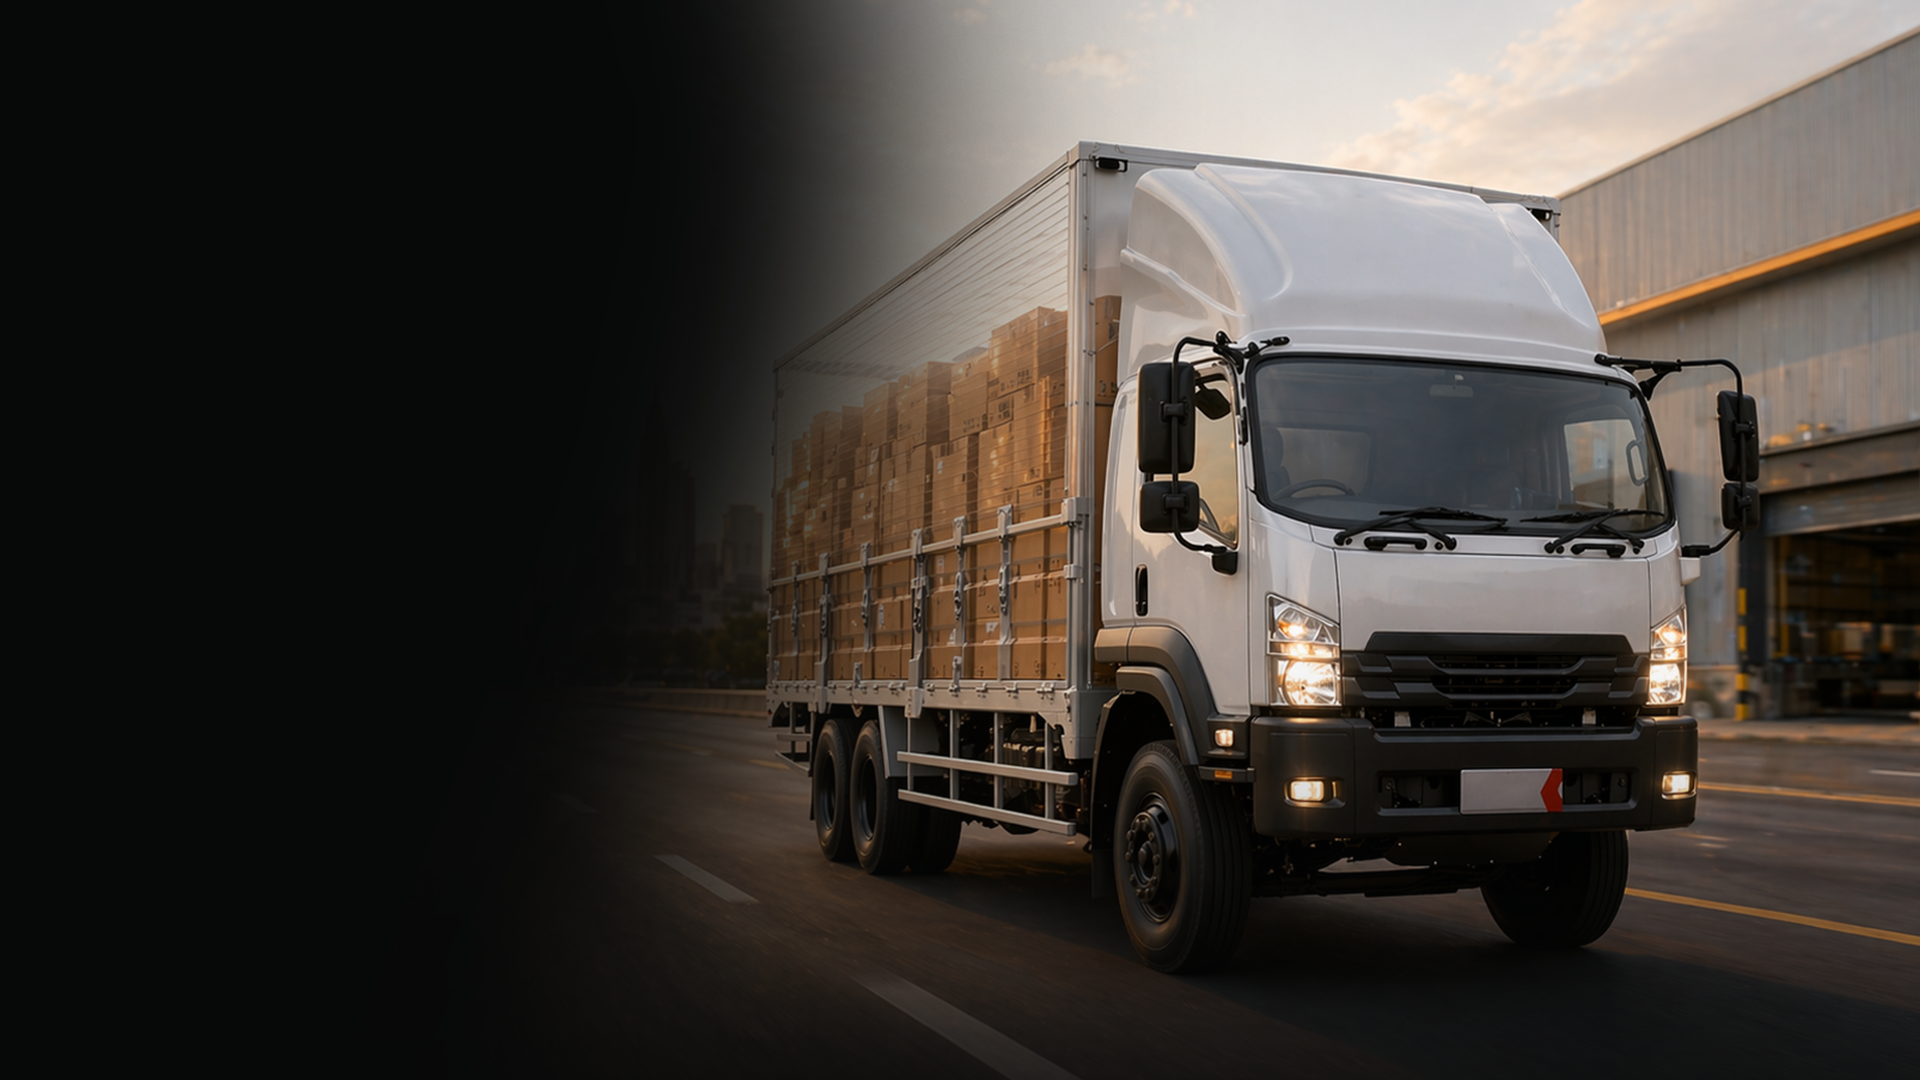
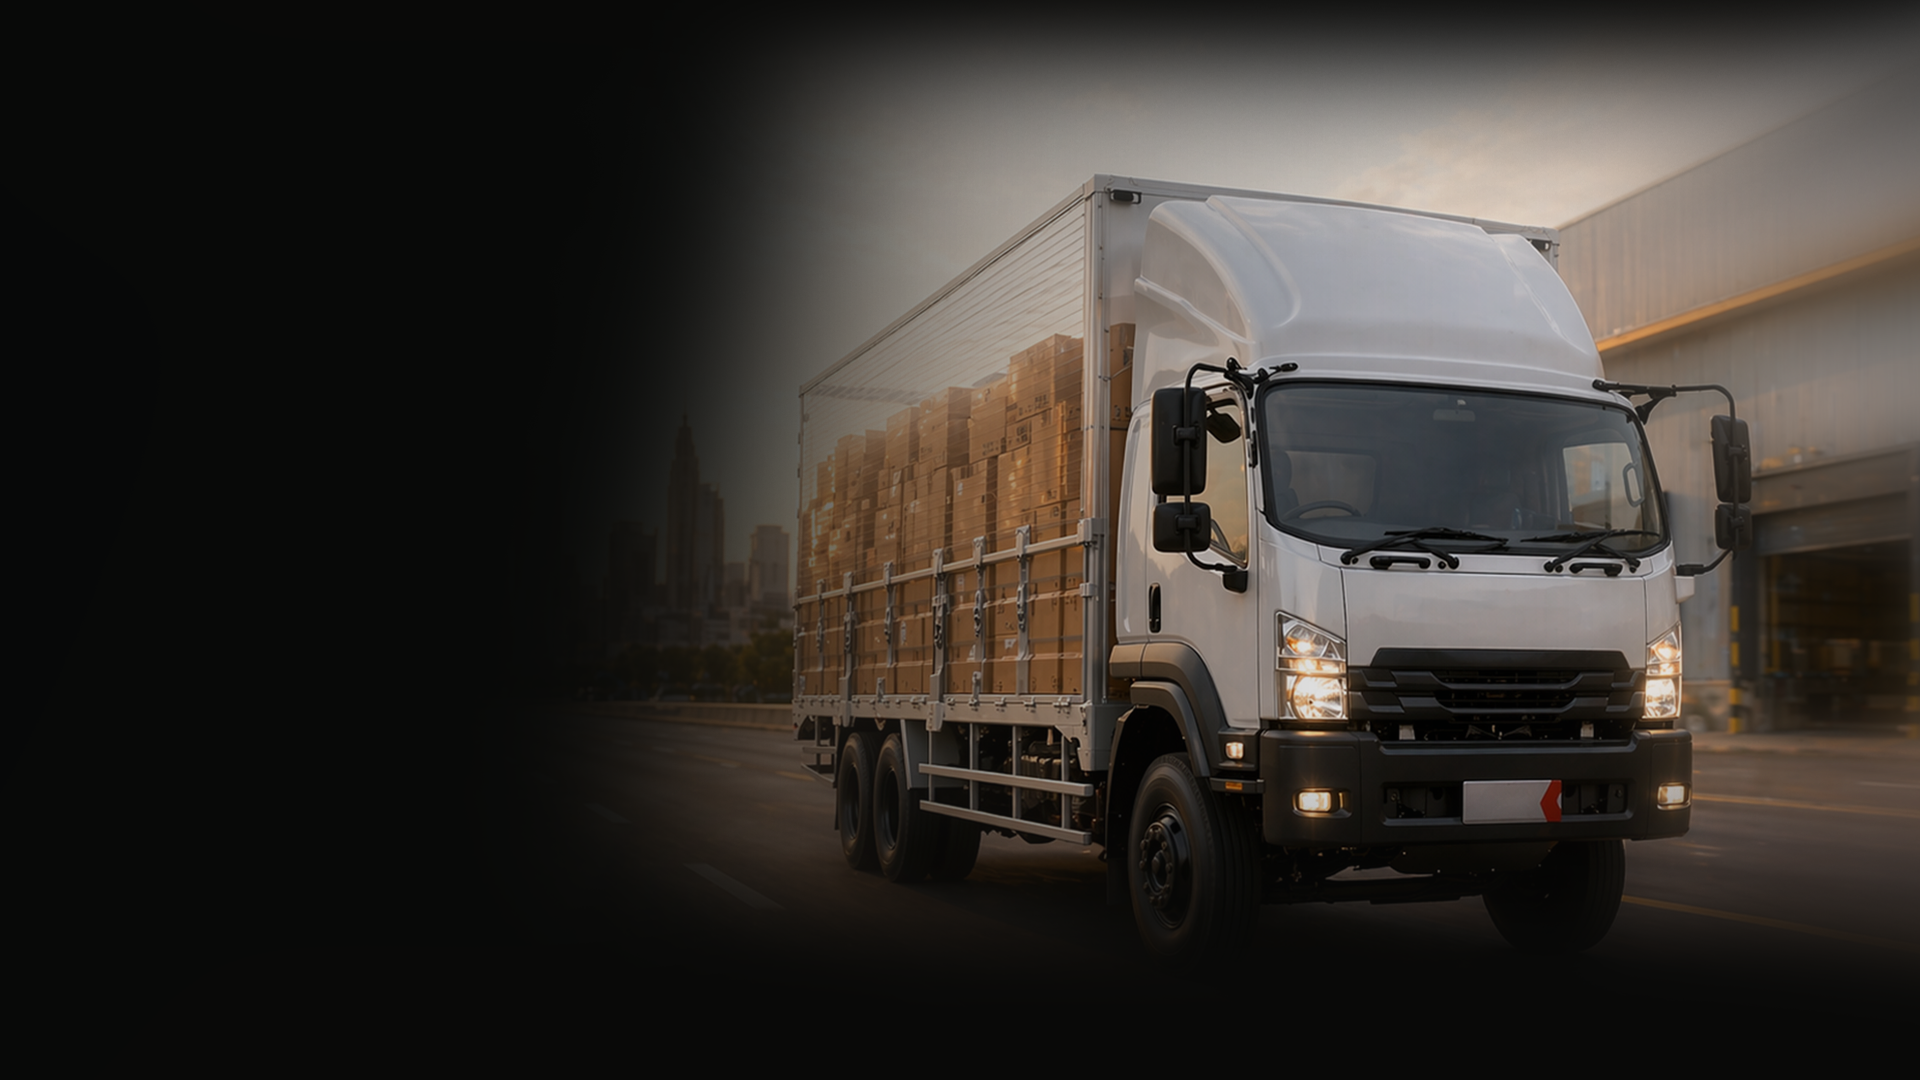
chore: auto sync cms and products backup

Changed region(s): [[0.3438, 0.0, 1.0, 1.0], [0.6875, 0.7944, 0.7812, 0.8556]]

diff --git a/style.css b/style.css
@@ -341,7 +341,7 @@ section {
 }
 
 .nav-cta:hover i {
-  transform: scale(1.2) rotate(15deg);
+  transform: scale(1.05);
 }
 
 .nav-cta:active {
@@ -2292,11 +2292,6 @@ section {
   overflow: hidden;
 }
 
-.product-card.card-variant-2 .product-card-image,
-.product-card.card-variant-3 .product-card-image {
-  height: 120px;
-  flex: none;
-}
 
 .product-card-image img {
   width: 100%;
@@ -2322,48 +2317,65 @@ section {
 }
 
 .product-card-body {
-  padding: 24px;
-  background: var(--white);
-  position: relative;
-  z-index: 2;
-}
-
-.product-card.card-variant-1 .product-card-body,
-.product-card.card-variant-4 .product-card-body {
   position: absolute;
   bottom: 0;
   left: 0;
   right: 0;
-  background: linear-gradient(to top, rgba(0,0,0,0.8) 0%, transparent 100%);
-  color: white;
+  /* Strengthened the gradient for better text readability */
+  background: linear-gradient(to top, rgba(0,0,0,0.95) 0%, rgba(0,0,0,0.7) 60%, transparent 100%);
   padding: 40px 30px 30px;
+  z-index: 2;
+  transition: padding 0.3s ease;
 }
 
-.product-card.card-variant-1 .product-card-body h3,
-.product-card.card-variant-4 .product-card-body h3,
-.product-card.card-variant-1 .product-card-body p,
-.product-card.card-variant-4 .product-card-body p {
-  color: white;
+.product-card:hover .product-card-body {
+  padding-bottom: 40px; /* Slight lift effect on hover */
 }
 
 .product-card-body h3 {
-  color: var(--primary);
+  color: #ffffff; /* Changed to white */
   font-family: 'Plus Jakarta Sans', sans-serif;
-  font-size: clamp(16px, 1.5vw, 20px);
+  font-size: clamp(18px, 1.8vw, 22px);
   font-weight: 800;
   margin-bottom: 8px;
   line-height: 1.2;
 }
 
 .product-card-body p {
-  color: var(--text-secondary);
-  font-size: 13px;
+  color: rgba(255, 255, 255, 0.85); /* Contrast with gradient */
+  font-size: 14px;
   line-height: 1.5;
   margin: 0;
   display: -webkit-box;
   -webkit-line-clamp: 2;
   -webkit-box-orient: vertical;
   overflow: hidden;
+}
+
+.card-top-icon {
+  position: absolute;
+  top: 20px;
+  right: 20px;
+  width: 40px;
+  height: 40px;
+  background: rgba(194, 153, 74, 0.15);
+  border-radius: 50%;
+  display: flex;
+  align-items: center;
+  justify-content: center;
+  color: #c2994a;
+  z-index: 3;
+  backdrop-filter: blur(8px);
+  -webkit-backdrop-filter: blur(8px);
+  font-size: 16px;
+  border: 1px solid rgba(194, 153, 74, 0.3);
+  transition: all 0.3s ease;
+}
+
+.product-card:hover .card-top-icon {
+  background: #c2994a;
+  color: #fff;
+  transform: scale(1.1);
 }
 
 .product-card-body .arrow {
@@ -3761,7 +3773,7 @@ section {
   background: var(--accent);
   color: var(--white);
   border-color: var(--accent);
-  transform: rotate(5deg);
+  transform: scale(1.1);
 }
 
 .contact-card:hover .card-arrow {
@@ -3841,7 +3853,7 @@ section {
 .contact-feature-item:hover .feature-icon {
   background: var(--accent);
   color: var(--white);
-  transform: scale(1.05) rotate(5deg);
+  transform: scale(1.05);
   box-shadow: var(--shadow-gold);
 }
 
@@ -5594,20 +5606,7 @@ section {
 .dist-hero-slide.active img {
   transform: scale(1.2) translateX(0);
 }
-.dist-hero-slide-num {
-  position: absolute;
-  top: 50%;
-  right: 5%;
-  transform: translateY(-50%);
-  font-size: clamp(100px, 15vw, 250px);
-  font-weight: 900;
-  color: rgba(194, 153, 74, 0.1);
-  z-index: 0;
-  pointer-events: none;
-  font-family: 'Inter', sans-serif;
-  line-height: 1;
-  letter-spacing: -0.05em;
-}
+
 
 @media (max-width: 1024px) {
   .dist-hero-wrapper { grid-template-columns: 1fr; min-height: auto; }
@@ -5638,18 +5637,18 @@ section {
   display: flex;
   justify-content: space-around;
   align-items: center;
-  background: #ffffff; /* Solid white as requested */
-  border-radius: 40px; /* Rounded rectangle style */
+  background: rgba(30, 30, 30, 0.45); /* Smoky dark glass as requested */
+  backdrop-filter: blur(25px);
+  -webkit-backdrop-filter: blur(25px);
+  border-radius: 100px; /* Capsule shape */
   padding: 40px 60px;
-  box-shadow: 
-    0 40px 80px rgba(0, 0, 0, 0.15),
-    0 0 30px rgba(255, 255, 255, 0.05); /* Subtle glass glow */
+  box-shadow: 0 40px 100px rgba(0, 0, 0, 0.3);
   margin: 0 auto 80px;
   max-width: 1200px;
   position: relative;
   z-index: 20;
   gap: 20px;
-  border: 1px solid rgba(0, 0, 0, 0.03);
+  border: 1px solid rgba(255, 255, 255, 0.1);
 }
 .dist-stat-premium {
   display: flex;
@@ -5667,14 +5666,14 @@ section {
   top: 20%;
   height: 60%;
   width: 1px;
-  background: linear-gradient(to bottom, transparent, rgba(0, 0, 0, 0.08), transparent);
+  background: linear-gradient(to bottom, transparent, rgba(255, 255, 255, 0.15), transparent);
 }
 .dist-stat-premium:last-child::after { display: none; }
 
 .stat-icon-premium {
   width: 80px;
   height: 80px;
-  background: #fdfaf3; /* Soft cream/gold circle from ref */
+  background: rgba(194, 153, 74, 0.1); /* Translucent gold circle */
   border-radius: 50%;
   display: flex;
   align-items: center;
@@ -5688,7 +5687,7 @@ section {
 .dist-stat-premium:hover .stat-icon-premium {
   background: #c2994a;
   color: #fff;
-  transform: scale(1.1) rotate(-10deg);
+  transform: scale(1.08);
 }
 .stat-info-premium {
   display: flex;
@@ -5704,13 +5703,13 @@ section {
 .dist-stat-premium .label {
   font-size: 15px;
   font-weight: 800;
-  color: #111; /* Dark text for contrast on white */
+  color: #ffffff; /* White text for contrast on dark glass */
   margin-bottom: 2px;
   text-transform: none;
 }
 .dist-stat-premium .sub-label {
   font-size: 13px;
-  color: #888;
+  color: rgba(255, 255, 255, 0.6);
   font-weight: 500;
 }
 
@@ -5733,7 +5732,7 @@ section {
   }
   .dist-stat-premium { 
     border-right: none; 
-    border-bottom: 1px solid rgba(0, 0, 0, 0.05); 
+    border-bottom: 1px solid rgba(255, 255, 255, 0.1); 
     padding-bottom: 30px; 
     width: 100%; 
     justify-content: center;
@@ -5766,13 +5765,10 @@ section {
 }
 .dist-logistik-map {
   position: absolute;
-  top: 0; right: 0;
-  width: 80%;
+  inset: 0;
+  width: 100%;
   height: 100%;
-  object-fit: contain;
-  filter: brightness(1.5) contrast(1.2) hue-rotate(10deg);
-  mix-blend-mode: screen;
-  opacity: 0.9;
+  object-fit: cover;
   z-index: 0;
 }
 .dist-logistik-overlay {
@@ -5827,6 +5823,17 @@ section {
   background: #c2994a;
   color: #000;
   transform: scale(1.1);
+}
+.dist-logistik-feat strong {
+  display: block;
+  color: #fff;
+  font-size: 16px;
+  font-weight: 700;
+  margin-bottom: 2px;
+}
+.dist-logistik-feat span {
+  color: rgba(255, 255, 255, 0.5);
+  font-size: 14px;
 }
 
 @media (max-width: 1200px) {
@@ -6073,7 +6080,7 @@ section {
 .promo-close-btn:hover {
   background: var(--white);
   color: var(--primary);
-  transform: rotate(90deg) scale(1.1);
+  transform: scale(1.1);
 }
 
 @media (max-width: 768px) {
@@ -6614,7 +6621,7 @@ section {
 
 .contact-floating-btn:hover i {
   color: var(--primary);
-  transform: rotate(-10deg) scale(1.1);
+  transform: scale(1.1);
 }
 
 /* Modal Styling */

diff --git a/index.html b/index.html
@@ -120,7 +120,7 @@
     <div class="container">
       <div class="hero-content">
         <div class="hero-badge" data-i18n="hero-badge">TRUSTED SINCE 2016</div>
-        <h1 data-i18n="hero-title">Distributor & Importir Makanan Berkualitas Indonesia</h1>
+        <h1 class="text-shine" data-i18n="hero-title">Distributor & Importir Makanan Berkualitas Indonesia</h1>
         <p data-i18n="hero-desc">PT Mitra Abadi Sindomas menghadirkan produk makanan dan minuman impor berkualitas
           tinggi dari merek-merek
           internasional terkemuka dengan jaminan sertifikasi Halal dan BPOM.</p>
@@ -344,7 +344,7 @@
         </div>
         <h2 class="text-shine" style="font-size: clamp(32px, 5vw, 56px); margin-bottom: 20px;" data-i18n="brands-title">
           Menghadirkan Merek <span class="gold-text">Internasional Terbaik</span></h2>
-        <p style="max-width: 700px; margin: 0 auto; opacity: 0.8;" data-i18n="brands-desc">Kami bekerja sama dengan produsen global
+        <p style="max-width: 700px; margin: 0 auto; opacity: 0.8; color: #fff;" data-i18n="brands-desc">Kami bekerja sama dengan produsen global
           terpercaya untuk membawa cita rasa dunia ke Indonesia.</p>
       </div>
 
@@ -556,7 +556,7 @@
       <!-- Left Content -->
       <div class="dist-hero-content">
         <div class="section-tag"><i class="fas fa-truck"></i> <span data-i18n="dist-tag">JANGKAUAN DISTRIBUSI</span></div>
-        <h2 class="dist-hero-title">JANGKAUAN &<br>MITRA DISTRIBUSI</h2>
+        <h2 class="dist-hero-title text-shine">JANGKAUAN &<br>MITRA DISTRIBUSI</h2>
         <p class="dist-hero-desc">Jaringan kami kuat tersebar di berbagai kota besar, bermitra dengan gudang modern dan kendaraan logistik milik perusahaan.</p>
         <a href="#distribusi-detail" class="btn-dist-hero"><span>Lihat Jangkauan</span> <i class="fas fa-arrow-right"></i></a>
 
@@ -597,7 +597,7 @@
             <img src="assets/images/img-slider-distribution/truck2.png" alt="Truk Distribusi Masfood 2">
           </div>
         </div>
-        <div class="dist-hero-slide-num">01</div>
+
       </div>
     </div>
   </section>
@@ -644,11 +644,10 @@
     <div class="container-wide">
       <div class="dist-logistik-section reveal fade-up">
         <div class="dist-logistik-bg">
-          <img src="assets/images/peta.gif" alt="Peta Jaringan Distribusi MAS" class="dist-logistik-map">
-          <div class="dist-logistik-overlay"></div>
+          <img src="assets/images/peta-indonesia-gold.png" alt="Peta Jaringan Distribusi MAS" class="dist-logistik-map">
           <div class="dist-logistik-content">
             <span class="dist-logistik-badge">JANGKAUAN LOGISTIK NASIONAL</span>
-            <h3>Menghubungkan<br>Seluruh Indonesia</h3>
+            <h3 class="text-shine">Menghubungkan<br>Seluruh Indonesia</h3>
             <p>Didukung jaringan logistik nasional yang handal untuk memastikan distribusi cepat, tepat, dan aman ke seluruh penjuru negeri.</p>
             <div class="dist-logistik-features">
               <div class="dist-logistik-feat">
@@ -2177,6 +2176,7 @@
         <div class="product-slide ${slide.length === 1 ? 'slide-single' : slide.length === 2 ? 'slide-2' : ''}">
           ${slide.map((c, idx) => `
             <div class="product-card card-variant-${idx + 1} reveal fade-up visible" onclick="window.location.href='produk.html?filter=${c.key}'">
+              <div class="card-top-icon"><i class="fas fa-crown"></i></div>
               <div class="product-card-image">
                 <img src="${c.imageData || c.image}" alt="${c.title}">
                 <div class="overlay"></div>
@@ -2184,7 +2184,6 @@
               <div class="product-card-body">
                 <h3>${getCategoryLabel(c.key)}</h3>
                 <p>${c.desc}</p>
-                <div class="arrow"><i class="fas fa-arrow-right"></i></div>
               </div>
             </div>
           `).join('')}